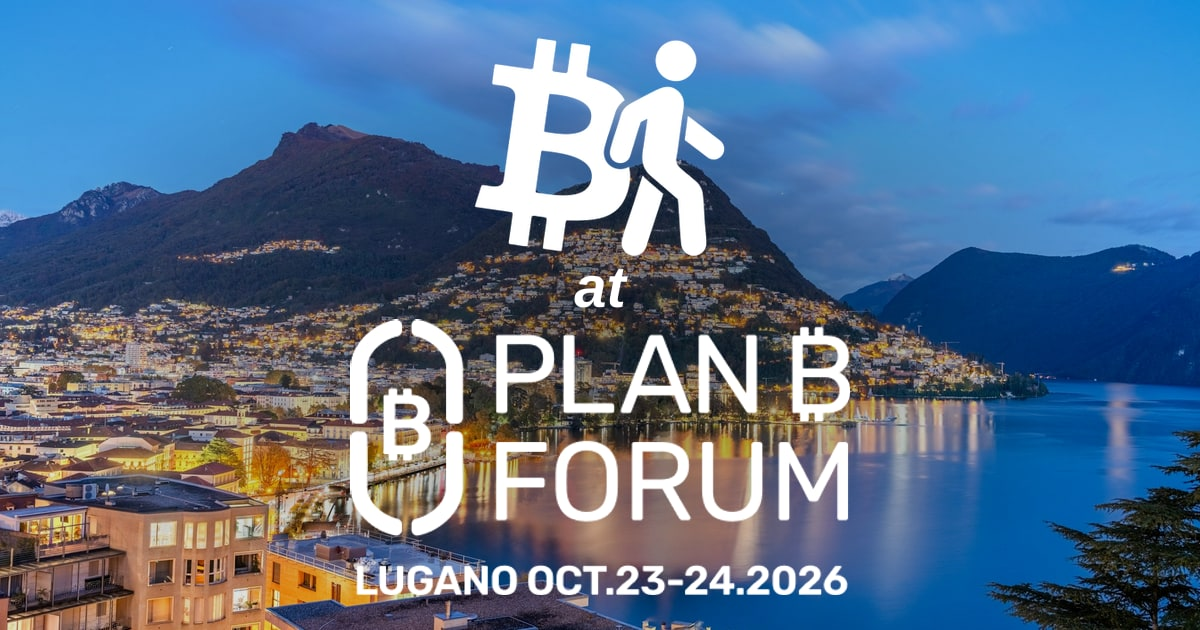
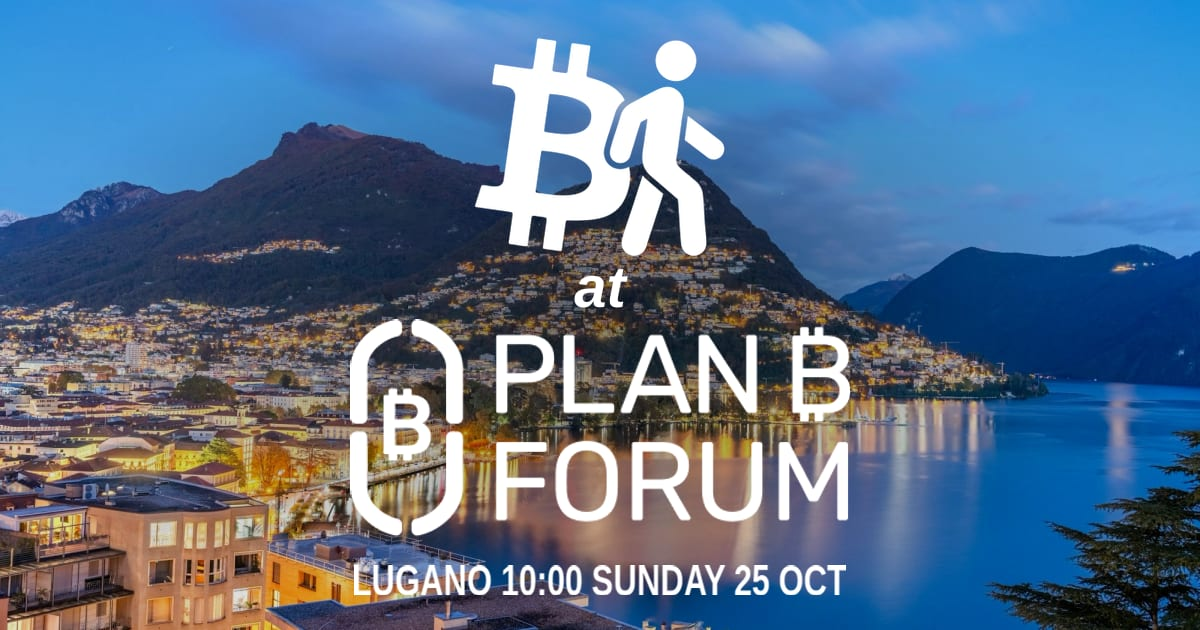
Update Lugano walk share image

Changed region(s): [[0.2775, 0.8746, 0.7092, 0.9651]]

diff --git a/src/app/api/healthz/route.ts b/src/app/api/healthz/route.ts
@@ -1,3 +1,3 @@
 export const dynamic="force-dynamic";
-export const defaultRelease="app-staging-0.3.481";
+export const defaultRelease="app-staging-0.3.482";
 export function GET(){return Response.json({status:"ok",app:"bitcoinwalk-web",release:process.env.BITCOINWALK_APP_RELEASE?.trim()||defaultRelease},{headers:{"Cache-Control":"no-store"}});}
